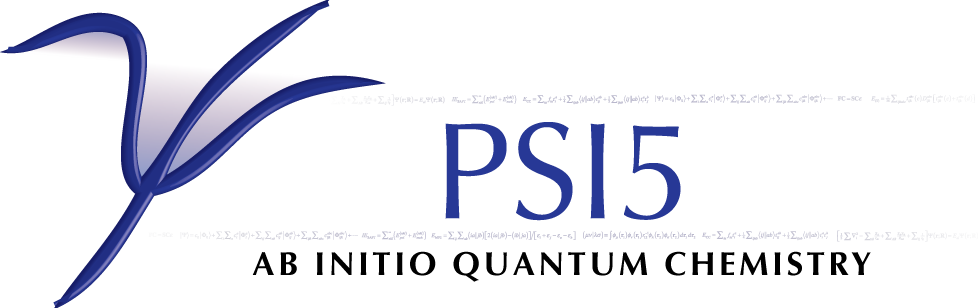
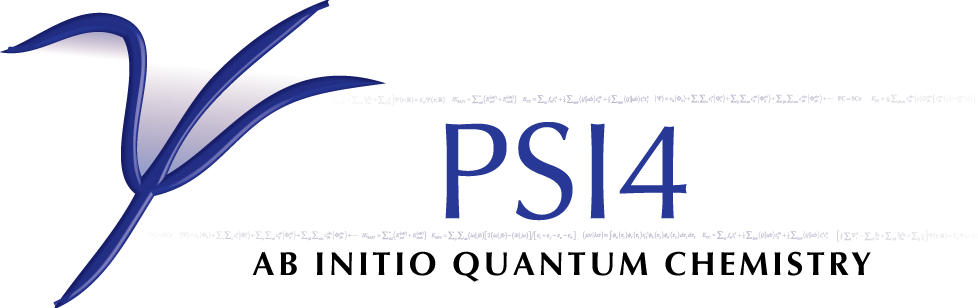
Revert docs version. Add import warnings to main driver files.

Changed region(s): [[0.6135, 0.4091, 0.7055, 0.7305]]

diff --git a/doc/sphinxman/source/conf.py b/doc/sphinxman/source/conf.py
@@ -279,8 +279,8 @@ texinfo_documents = [
 
 # Abbreviations
 rst_epilog = """
-.. |PSIfour| replace:: PSI5
-.. |psirc| replace:: ``~/.psi5rc``
+.. |PSIfour| replace:: PSI4
+.. |psirc| replace:: ``~/.psi4rc``
 .. |dl| replace:: :math:`\Rightarrow`
 .. |dr| replace:: :math:`\Leftarrow`
 .. |kcalpermol| replace:: kcal mol\ :sup:`-1`
@@ -301,7 +301,7 @@ rst_prolog = """
 """
 
 # This option, from sphinx.ext.extlinks, allows linking to source on trac with :source:`lib/python/driver/py`
-extlinks = {'source': ('http://sirius.chem.vt.edu/trac/browser/%s', 'psi5/'),
+extlinks = {'source': ('http://sirius.chem.vt.edu/trac/browser/%s', 'psi4/'),
             'srcsample': ('http://sirius.chem.vt.edu/trac/browser/samples/%s/input.dat', ''),
             'srcbasis': ('http://sirius.chem.vt.edu/trac/browser/lib/basis/%s.gbs', '') }
 

diff --git a/lib/python/wrappers.py b/lib/python/wrappers.py
@@ -17,6 +17,7 @@ from molutil import *
 from text import *
 from collections import defaultdict
 from procutil import *
+# never import aliases into this file
 
 
 # Function to make calls among wrappers(), energy(), optimize(), etc.

diff --git a/lib/python/proc.py b/lib/python/proc.py
@@ -14,6 +14,7 @@ import physconst
 from molutil import *
 from text import *
 from procutil import *
+# never import driver, wrappers, or aliases into this file
 
 
 def run_dcft(name, **kwargs):

diff --git a/lib/python/driver.py b/lib/python/driver.py
@@ -9,6 +9,7 @@ import input
 from proc import *
 from text import *
 from procutil import *
+# never import wrappers or aliases into this file
 
 
 # Procedure lookup tables

diff --git a/doc/sphinxman/source/plugins.rst b/doc/sphinxman/source/plugins.rst
@@ -122,7 +122,7 @@ In addition to the main ``myplugin.cc`` file, a fresh plugin directory contains 
 * **inputalt.dat** |w---w| Sample input file for the plugin (new style).
   Since the ``__init__.py`` file makes the plugin directory look like a
   Python module, the plugin can be treated as such in an input file. The
-  location of the plugin directory mush be included in :envvar:`PYTHONPATH`,
+  location of the plugin directory must be included in :envvar:`PYTHONPATH`,
   either externally in the calling shell or defined in the input file. Then,
   the plugin can be loaded as ``import myplugin`` and executed as
   ``energy('myplugin')``. Any other Python functions are also available from
